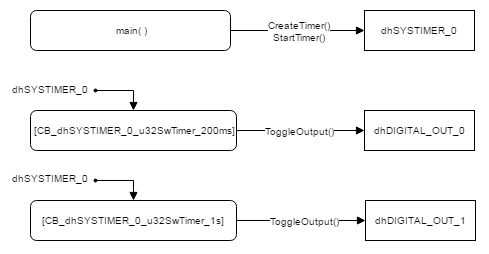
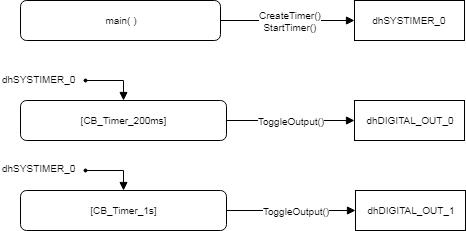
Update SysTimer

diff --git a/src/SystemTimer_Ex0/main.c b/src/SystemTimer_Ex0/main.c
@@ -20,55 +20,55 @@
  * code.
  */
 
-SYSTIMER_STATE_t eu32SwTimer_200ms_State;
-SYSTIMER_STATE_t eu32SwTimer_1s_State;
-uint32_t u32SwTimer_200ms;
-uint32_t u32SwTimer_1s;
-uint32_t u32SwTimer_100ms;
+SYSTIMER_STATE_t Timer_200ms_State;
+SYSTIMER_STATE_t Timer_1s_State;
+uint32_t Timer_200ms_Id;
+uint32_t Timer_1s_Id;
+uint32_t Timer_100ms_Id;
 
-void CB_dhSYSTIMER_0_u32SwTimer_200ms(void)
+void CB_Timer_200ms(void)
 {
 	DIGITAL_IO_ToggleOutput(&dhDIGITAL_OUT_0);
 }
 
-void CB_dhSYSTIMER_0_u32SwTimer_1s(void)
+void CB_Timer_1s(void)
 {
 	DIGITAL_IO_ToggleOutput(&dhDIGITAL_OUT_1);
 }
 
-void CB_dhSYSTIMER_0_u32SwTimer_100ms(void)
+void CB_Timer_100ms(void)
 {
-  eu32SwTimer_200ms_State = SYSTIMER_GetTimerState(u32SwTimer_200ms);
-  eu32SwTimer_1s_State = SYSTIMER_GetTimerState(u32SwTimer_1s);
+  Timer_200ms_State = SYSTIMER_GetTimerState(Timer_200ms_Id);
+  Timer_1s_State = SYSTIMER_GetTimerState(Timer_1s_Id);
 
   if (DIGITAL_IO_GetInput(&dhDIGITAL_IN_0) == 0 && DIGITAL_IO_GetInput(&dhDIGITAL_IN_1) == 0)
   {
-	  if (eu32SwTimer_200ms_State == SYSTIMER_STATE_NOT_INITIALIZED)
+	  if (Timer_200ms_State == SYSTIMER_STATE_NOT_INITIALIZED)
 	  {
-		  u32SwTimer_200ms = SYSTIMER_CreateTimer(200000, SYSTIMER_MODE_PERIODIC, CB_dhSYSTIMER_0_u32SwTimer_200ms, NULL);
-		  SYSTIMER_StartTimer(u32SwTimer_200ms);
+		  Timer_200ms_Id = SYSTIMER_CreateTimer(200000, SYSTIMER_MODE_PERIODIC, CB_Timer_200ms, NULL);
+		  SYSTIMER_StartTimer(Timer_200ms_Id);
 	  }
 
-	  if (eu32SwTimer_1s_State == SYSTIMER_STATE_NOT_INITIALIZED)
+	  if (Timer_1s_State == SYSTIMER_STATE_NOT_INITIALIZED)
 	  {
-		  u32SwTimer_1s = SYSTIMER_CreateTimer(1000000, SYSTIMER_MODE_PERIODIC, CB_dhSYSTIMER_0_u32SwTimer_1s, NULL);
-		  SYSTIMER_StartTimer(u32SwTimer_1s);
+		  Timer_1s_Id = SYSTIMER_CreateTimer(1000000, SYSTIMER_MODE_PERIODIC, CB_Timer_1s, NULL);
+		  SYSTIMER_StartTimer(Timer_1s_Id);
 	  }
   }
   else if (DIGITAL_IO_GetInput(&dhDIGITAL_IN_0) == 0)
   {
-	  if (eu32SwTimer_200ms_State == SYSTIMER_STATE_RUNNING)
+	  if (Timer_200ms_State == SYSTIMER_STATE_RUNNING)
 	  {
-		  SYSTIMER_StopTimer(u32SwTimer_200ms);
-		  SYSTIMER_DeleteTimer(u32SwTimer_200ms);
+		  SYSTIMER_StopTimer(Timer_200ms_Id);
+		  SYSTIMER_DeleteTimer(Timer_200ms_Id);
 	  }
   }
   else if (DIGITAL_IO_GetInput(&dhDIGITAL_IN_1) == 0)
   {
-	  if (eu32SwTimer_1s_State == SYSTIMER_STATE_RUNNING)
+	  if (Timer_1s_State == SYSTIMER_STATE_RUNNING)
 	  {
-		  SYSTIMER_StopTimer(u32SwTimer_1s);
-		  SYSTIMER_DeleteTimer(u32SwTimer_1s);
+		  SYSTIMER_StopTimer(Timer_1s_Id);
+		  SYSTIMER_DeleteTimer(Timer_1s_Id);
 	  }
   }
 }
@@ -90,13 +90,13 @@ int main(void)
     }
   }
 
-  u32SwTimer_200ms = SYSTIMER_CreateTimer(200000, SYSTIMER_MODE_PERIODIC, CB_dhSYSTIMER_0_u32SwTimer_200ms, NULL);
-  u32SwTimer_1s = SYSTIMER_CreateTimer(1000000, SYSTIMER_MODE_PERIODIC, CB_dhSYSTIMER_0_u32SwTimer_1s, NULL);
-  u32SwTimer_100ms = SYSTIMER_CreateTimer(100000, SYSTIMER_MODE_PERIODIC, CB_dhSYSTIMER_0_u32SwTimer_100ms, NULL);
+  Timer_200ms_Id = SYSTIMER_CreateTimer(200000, SYSTIMER_MODE_PERIODIC, (void*) CB_Timer_200ms, NULL);
+  Timer_1s_Id = SYSTIMER_CreateTimer(1000000, SYSTIMER_MODE_PERIODIC, (void*) CB_Timer_1s, NULL);
+  Timer_100ms_Id = SYSTIMER_CreateTimer(100000, SYSTIMER_MODE_PERIODIC, (void*) CB_Timer_100ms, NULL);
 
-  SYSTIMER_StartTimer(u32SwTimer_200ms);
-  SYSTIMER_StartTimer(u32SwTimer_1s);
-  SYSTIMER_StartTimer(u32SwTimer_100ms);
+  SYSTIMER_StartTimer(Timer_200ms_Id);
+  SYSTIMER_StartTimer(Timer_1s_Id);
+  SYSTIMER_StartTimer(Timer_100ms_Id);
 
   /* Placeholder for user application code. The while loop below can be replaced with user application code. */
   while(1U)

diff --git a/src/SystemTimer/main.c b/src/SystemTimer/main.c
@@ -20,15 +20,15 @@
  * code.
  */
 
-uint32_t u32SwTimer_200ms;
-uint32_t u32SwTimer_1s;
+uint32_t Timer_200ms_Id;
+uint32_t Timer_1s_Id;
 
-void CB_dhSYSTIMER_0_u32SwTimer_200ms(void)
+void CB_Timer_200ms(void)
 {
 	DIGITAL_IO_ToggleOutput(&dhDIGITAL_OUT_0);
 }
 
-void CB_dhSYSTIMER_0_u32SwTimer_1s(void)
+void CB_Timer_1s(void)
 {
 	DIGITAL_IO_ToggleOutput(&dhDIGITAL_OUT_1);
 }
@@ -50,11 +50,11 @@ int main(void)
     }
   }
 
-  u32SwTimer_200ms = SYSTIMER_CreateTimer(200000, SYSTIMER_MODE_PERIODIC, CB_dhSYSTIMER_0_u32SwTimer_200ms, NULL);
-  u32SwTimer_1s = SYSTIMER_CreateTimer(1000000, SYSTIMER_MODE_PERIODIC, CB_dhSYSTIMER_0_u32SwTimer_1s, NULL);
+  Timer_200ms_Id = SYSTIMER_CreateTimer(200000, SYSTIMER_MODE_PERIODIC, (void*) CB_Timer_200ms, NULL);
+  Timer_1s_Id = SYSTIMER_CreateTimer(1000000, SYSTIMER_MODE_PERIODIC, (void*) CB_Timer_1s, NULL);
 
-  SYSTIMER_StartTimer(u32SwTimer_200ms);
-  SYSTIMER_StartTimer(u32SwTimer_1s);
+  SYSTIMER_StartTimer(Timer_200ms_Id);
+  SYSTIMER_StartTimer(Timer_1s_Id);
 
   /* Placeholder for user application code. The while loop below can be replaced with user application code. */
   while(1U)

diff --git a/docs/LabSystemTimer.md b/docs/LabSystemTimer.md
@@ -1,0 +1,179 @@
+---
+title: Lab Systimer
+author: Taekwang Heo
+date: Jan. 10 2017
+---
+
+# Lab Systimer
+
+## 개요
+시스템 타이머를 사용하여 보드 상의 LED를 주기적으로 토글한다.
+
+### 목적
+* 시스템 타이머 관련설정 학습 후 DAVE SYSTIMER APP을 활용한 관련설정 실습
+* SYSTIMER APP 관련 메쏘드를 사용하여 운용방법 학습
+
+### 학습성과
+* DAVE 환경에서 시스템 타이머를 설정하고 사용할 수 있다.
+
+### 선행사항들
+* Lecture DigitalIos
+
+### 참고자료 및 심화학습
+* Lecture SystemTimer
+
+## 예제에 대한 설명
+
+![LabSystemTimer_SystemDiagram](./images/LabSystemTimer_SystemDiagram.png)
+
+### 예제 동작
+* LED1를 시스템 타이머를 사용하여 200ms 마다 토글한다.
+* LED2를 시스템 타이머를 사용하여 1s 마다 토글한다.
+
+### 프로그램 구조
+![LabSystemTimer_SoftwareArchitecture](./images/LabSystemTimer_SoftwareArchitecture.png)
+#### DAVE APP
+* DIGITAL_IO
+
+| Name            | Pin direction |
+|-----------------|---------------|
+| dhDIGITAL_OUT_0 | Input/Output  |
+| dhDIGITAL_OUT_1 | Input/Output  |
+
+* SYSTIMER(dhSYSTIMER_0)
+
+| Configuration Name        | Value |
+|---------------------------|-------|
+| SysTick timer period[us]  | 1000  |
+| Number of software timers | 8     |
+
+#### Functions
+* main
+    - SYSTIMER_CreateTimer 메쏘드를 사용하여 Timer_200ms_Id, u32SwTimer_1s_Id 소프트웨어 타이머 두 개를 생성한다.
+    - 두 소프트웨어 타이머를 SYSTIMER_StartTimer 메쏘드를 사용하여 시작한다.
+
+| Name           | period[us] | mode                   | callback       |
+| -------------- | ---------- | ---------------------- | -------------- |
+| Timer_200ms_Id | 200000     | SYSTIMER_MODE_PERIODIC | CB_Timer_200ms |
+| Timer_1s_Id    | 1000000    | SYSTIMER_MODE_PERIODIC | CB_Timer_1s    |
+
+* CB_Timer_200ms
+    - Timer_200ms에 의해 실행되는 콜백함수이다.
+    - dhDIGITAL_OUT_0을 토글한다.
+* CB_Timer_1s
+    - Timer_1s 의해 실행되는 콜백함수이다.
+    - dhDIGITAL_OUT_1을 토글한다.
+
+### 준비물과 하드웨어 구성
+* XMC4500 Relax Lite Kit-V1
+* DAVE v4.3.2
+
+### 프로그램 작성
+1. 상단의 [File]-[New]-[DAVE Project] 메뉴를 사용하여 DAVE Project를 새로 만든다.
+
+  ![LabSystemTimer_NewProject1](./images/LabSystemTimer_NewProject1.png)
+
+  ![LabSystemTimer_NewProject2](./images/LabSystemTimer_NewProject2.png)
+
+2. 툴바에서 **Add New APP** 을 사용하여 다음과 같이 SYSTIMER APP을 검색하고 추가한다.
+
+  ![LabSystemTimer_AddApp1](./images/LabSystemTimer_AddApp1.png)
+
+3. SYSTIMER_0의 오른쪽 마우스 메뉴에서 **Rename Instance Label** 을 선택하여 라벨이름을 dhSYSTIMER_0으로 변경한다.
+
+4. dhSYSTIMER_0 APP을 다음과 같이 설정을 변경한다.
+
+  ![LabSystemTimer_Config1](./images/LabSystemTimer_Config1.png)
+
+5. 툴바에서 **Add New APP** 을 사용하여 다음과 같이 DIGITAL_IO APP을 검색하고 2개 추가한다.
+
+  ![LabSystemTimer_AddApp2](./images/LabSystemTimer_AddApp2.png)
+
+6. DIGITAL_IO_0, DIGITAL_IO_1의 오른쪽 마우스 메뉴에서 **Rename Instance Label** 을 선택하여 라벨이름을 각각 dhDIGITAL_OUT_0, dhDIGITAL_OUT_1으로 변경한다.
+
+  ![LabSystemTimer_AddApp3](./images/LabSystemTimer_AddApp3.png)
+
+7. dhDIGITAL_OUT_0와 dhDIGITAL_OUT_1을 다음과 같이 설정한다.
+
+  ![LabSystemTimer_Config2](./images/LabSystemTimer_Config2.png)
+
+8. 툴바에서 **Manual Pin Allocator** 를 사용하여 dhDIGITAL_OUT_0, dhDIGITAL_OUT_1 APP 핀 설정을 다음과 같이 한다.
+
+  ![LabSystemTimer_Config3](./images/LabSystemTimer_Config3.png)
+
+9. 툴바에서 **Generate Code** 를 사용하여 APP 설정을 코드에 적용한다.
+
+10. main.c 파일에 코드를 다음과 같이 입력한다.
+
+```c
+#include <DAVE.h>                 //Declarations from DAVE Code Generation (includes SFR declaration)
+
+/**
+
+ * @brief main() - Application entry point
+ *
+ * <b>Details of function</b><br>
+ * This routine is the application entry point. It is invoked by the device startup code. It is responsible for
+ * invoking the APP initialization dispatcher routine - DAVE_Init() and hosting the place-holder for user application
+ * code.
+ */
+
+uint32_t Timer_200ms_Id;
+uint32_t Timer_1s_Id;
+
+void CB_Timer_200ms(void)
+{
+	DIGITAL_IO_ToggleOutput(&dhDIGITAL_OUT_0);
+}
+
+void CB_Timer_1s(void)
+{
+	DIGITAL_IO_ToggleOutput(&dhDIGITAL_OUT_1);
+}
+
+int main(void)
+{
+    DAVE_STATUS_t status;
+
+    status = DAVE_Init();           /* Initialization of DAVE APPs  */
+
+    if(status != DAVE_STATUS_SUCCESS)
+    {
+        /* Placeholder for error handler code. The while loop below can be replaced with an user error handler. */
+        XMC_DEBUG("DAVE APPs initialization failed\n");
+        while(1U)
+        {
+
+        }
+    }
+
+    Timer_200ms_Id = SYSTIMER_CreateTimer(200000, SYSTIMER_MODE_PERIODIC, (void*) CB_Timer_200ms, NULL);
+    Timer_1s_Id = SYSTIMER_CreateTimer(1000000, SYSTIMER_MODE_PERIODIC, (void*) CB_Timer_1s, NULL);
+
+    SYSTIMER_StartTimer(Timer_200ms_Id);
+    SYSTIMER_StartTimer(Timer_1s_Id);
+
+    /* Placeholder for user application code. The while loop below can be replaced with user application code. */
+    while(1U)
+    {
+
+    }
+}
+
+```
+
+11. 빌드 후 코드를 마이크로컨트롤러에 다운로드한다.
+
+### 실행결과
+* Timer_200ms 소프트웨어 타이머를 사용하여 200ms 주기로 LED1을 토글한다.
+* Timer_1s 소프트웨어 타이머를 사용하여 1s 주기로 LED2를 토글한다.
+
+### 추가적인 실험
+다음과 같이 동작을 구현해보자
+
+* DIGITAL_IO APP을 2개 추가하고 각각 BUTTON1, BUTTON2와 연결한다.
+* 소프트웨어 타이머를 추가하고 100 ms 주기로 콜백 함수를 실행시킨다.
+* 콜백함수에는 다음의 동작을 구현한다.
+    - BUTTON1을 누르면 u32SwTimer_200ms 소프트웨어타이머를 삭제한다.
+    - BUTTON2을 누르면 u32SwTimer_1s 소프트웨어타이머를 삭제한다.
+    - BUTTON1과 BUTTON2를 동시에 누르면, u32SwTimer_200ms, u32SwTimer_1s 중 삭제된 소프트웨어 타이머를 재 생성하고 시작한다.
